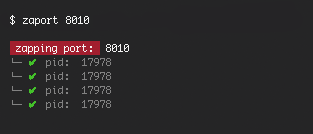
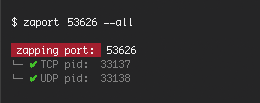
0.0.6

diff --git a/index.js b/index.js
@@ -1,48 +1,94 @@
 'use strict';
-var listToArray = require('list-to-array');
-require('native-promise-only');
-var execa = require('execa');
+var arrayUnique = require('array-unique');
+var multiline = require('multiline');
+var pids = require('port-pid');
 var fkill = require('fkill');
 var chalk = require('chalk');
 
-module.exports = function (port, opts) {
-	opts = opts || {};
+require('native-promise-only');
 
-	if (!port) {
+module.exports = function (input, flags) {
+	flags = flags || {};
+
+	if (!input) {
 		showHelp();
-		process.exit(1);
+		process.exit(0);
 	}
 
-	var cmd = command(port);
+	if (isNaN(input)) {
+		throw new TypeError('zaport expects a port number');
+	}
 
-	execa.shell(cmd).then(function (result) {
-		var args = listToArray(result.stdout, '\n');
+	pids(input).then(function (pids) {
+		var allpids = pids.all;
+		var tcppids = pids.tcp;
+		var udppids = pids.udp;
 
-		if (args.length > 0) {
+		var port = input;
+
+		// console.log(pids, flags);
+
+		function which(pid) {
+			return tcppids.indexOf(pid) === -1 ? 'UDP' : 'TCP';
+		}
+
+		var que = [];
+
+		if (flags.a || flags.all) {
+			que = que.concat(allpids);
+		}
+
+		if (flags.t || flags.tcp) {
+			que = que.concat(tcppids);
+		}
+
+		if (flags.u || flags.udp) {
+			que = que.concat(udppids);
+		}
+
+		if (Object.keys(flags).length === 0) {
+			que = que.concat(tcppids);
+		}
+
+		que = arrayUnique(que);
+
+		if (que.length > 0) {
 			console.log('\n', chalk.bgRed(' zapping port: '), port);
 		}
-		args.map(function (pid, index) {
-			console.log(chalk.gray(' └─'), chalk.green('✓'), chalk.gray(' pid: ', pid));
 
-			fkill(parseInt(pid, 10));
+		que.map(function (pid, index) {
+			console.log(chalk.gray(' └─'), chalk.green('✓'), chalk.gray(which(pid)), chalk.gray('pid: ', pid));
 
-			if (++index === args.length) {
+			fkill(parseInt(pid, 10)).then(function () {
+
+			}).catch(function () {
+				console.log(chalk.gray(' └─'), chalk.red('x'), chalk.gray(which(pid)), chalk.gray('pid: ', pid));
+			});
+
+			if (++index === que.length) {
 				console.log('\n');
 			}
 		});
-	}).catch(function (err) {
-		console.log('no processes zapped.\nError: ', err);
 	});
 };
 
-function command(port) {
-	var win = 'FOR /F "tokens=5 delims= " %P IN ("netstat -a -n -o ^| findstr :' + port + '") DO @ECHO %P';
-	var mac = 'lsof -i :' + port + ' | awk \'NR!=1 {print $2}\'';
-
-	return process.platform === 'win32' ? win : mac;
-}
-
 function showHelp() {
-	console.log('Usage');
-	console.log('  $ zaport [port]');
+	console.log(multiline(function () {/*
+
+	 Close all activity on a given port. Only zaps TCP ports by default.
+
+	 Usage
+	   $ zaport <port> <options>
+
+	 Options
+	   -t, --tcp  only zap TCP activity (default)
+	   -u, --udp  only zap UDP activity
+	   -a, --all  zap all TCP/UDP activity
+
+	 Examples
+	   $ zaport 8010 -a
+	   $ zaport 8010 --all
+	   $ zaport 8010 -t
+
+	 */}));
 }

diff --git a/test/tcp.js b/test/tcp.js
@@ -1,0 +1,22 @@
+const server = require('express')();
+import zaport from './../index.js';
+import test from 'ava';
+
+test.beforeEach(t => {
+	const listener = server.listen(0);
+	t.context.listener = listener;
+	t.context.port = listener.address().port;
+	console.log('running test server on port: ', t.context.port);
+});
+
+// TODO: Actually write some meaningful tests!
+// https://github.com/radiovisual/zaport/issues/2
+test('zaps tcp processes on specified port', t => {
+	zaport(t.context.port, {t:true, tcp:true});
+});
+
+test.afterEach(t => {
+	t.context.listener.close();
+	console.log('closing test server on port: ', t.context.port);
+});
+

diff --git a/cli.js b/cli.js
@@ -4,9 +4,28 @@ var meow = require('meow');
 var zaport = require('./index.js');
 
 var cli = meow([
+	'',
+	'Close all activity on a given port. Only zaps TCP ports by default.',
+	'',
 	'Usage',
-	'  $ zaport [port]',
+	'  $ zaport <port> <options>',
+	'',
+	'Options',
+	'  -t, --tcp  only zap TCP activity (default)',
+	'  -u, --udp  only zap UDP activity',
+	'  -a, --all  zap all TCP/UDP activity',
+	'',
+	'Examples',
+	'  $ zaport 8010 -a',
+	'  $ zaport 8010 --all',
+	'  $ zaport 8010 -t',
 	''
-]);
+], {
+	alias: {
+		a: 'all',
+		u: 'udp',
+		t: 'tcp'
+	}
+});
 
-zaport(cli.input[0]);
+zaport(cli.input[0], cli.flags);

diff --git a/test/udp.js b/test/udp.js
@@ -1,0 +1,6 @@
+// import zaport from './../index.js';
+import test from 'ava';
+
+test('should zap activity on UDP ports', t => {
+	t.is(false);
+});

diff --git a/test/bindudp.py b/test/bindudp.py
@@ -1,0 +1,14 @@
+import socket
+import sys
+
+# Create a TCP/IP socket
+sock = socket.socket(socket.AF_INET, socket.SOCK_DGRAM)
+
+port = sys.argv[1]
+
+# Bind the socket to the port
+server_address = ('localhost', int(port))
+print sys.stderr, 'starting up on %s port %s' % server_address
+sock.bind(server_address)
+
+raw_input("click any key to shutdown...")

diff --git a/readme.md b/readme.md
@@ -6,6 +6,7 @@
 
 # ![zaport](media/screenshot.png)
 
+**Note** This module is currently working for me on my mac, but it [needs unit tests](https://github.com/radiovisual/zaport/issues/2). I don't have time to write them right now, since they are a bit tricky and will take a little research. If you are willing to help out, pull requests are welcome. :sunglasses:   
 
 ## Install
 
@@ -17,16 +18,22 @@ $ npm install --global zaport
 ## Usage
 
 ```
-$ zaport <port>
-```
-## Example
+$ zaport --help
 
-```
-$ zaport 8010
+Close all activity on a given port. Only zaps TCP ports by default.
 
-  zapping port:  8010
-  └─ ×  pid:  18073
+	 Usage
+	   $ zaport <port> <options>
 
+	 Options
+	   -t, --tcp  only zap TCP activity (default)
+	   -u, --udp  only zap UDP activity
+	   -a, --all  zap all TCP/UDP activity
+
+	 Examples
+	   $ zaport 8010 -a
+	   $ zaport 8010 --all
+	   $ zaport 8010 -t
 ```
 
 ## License
